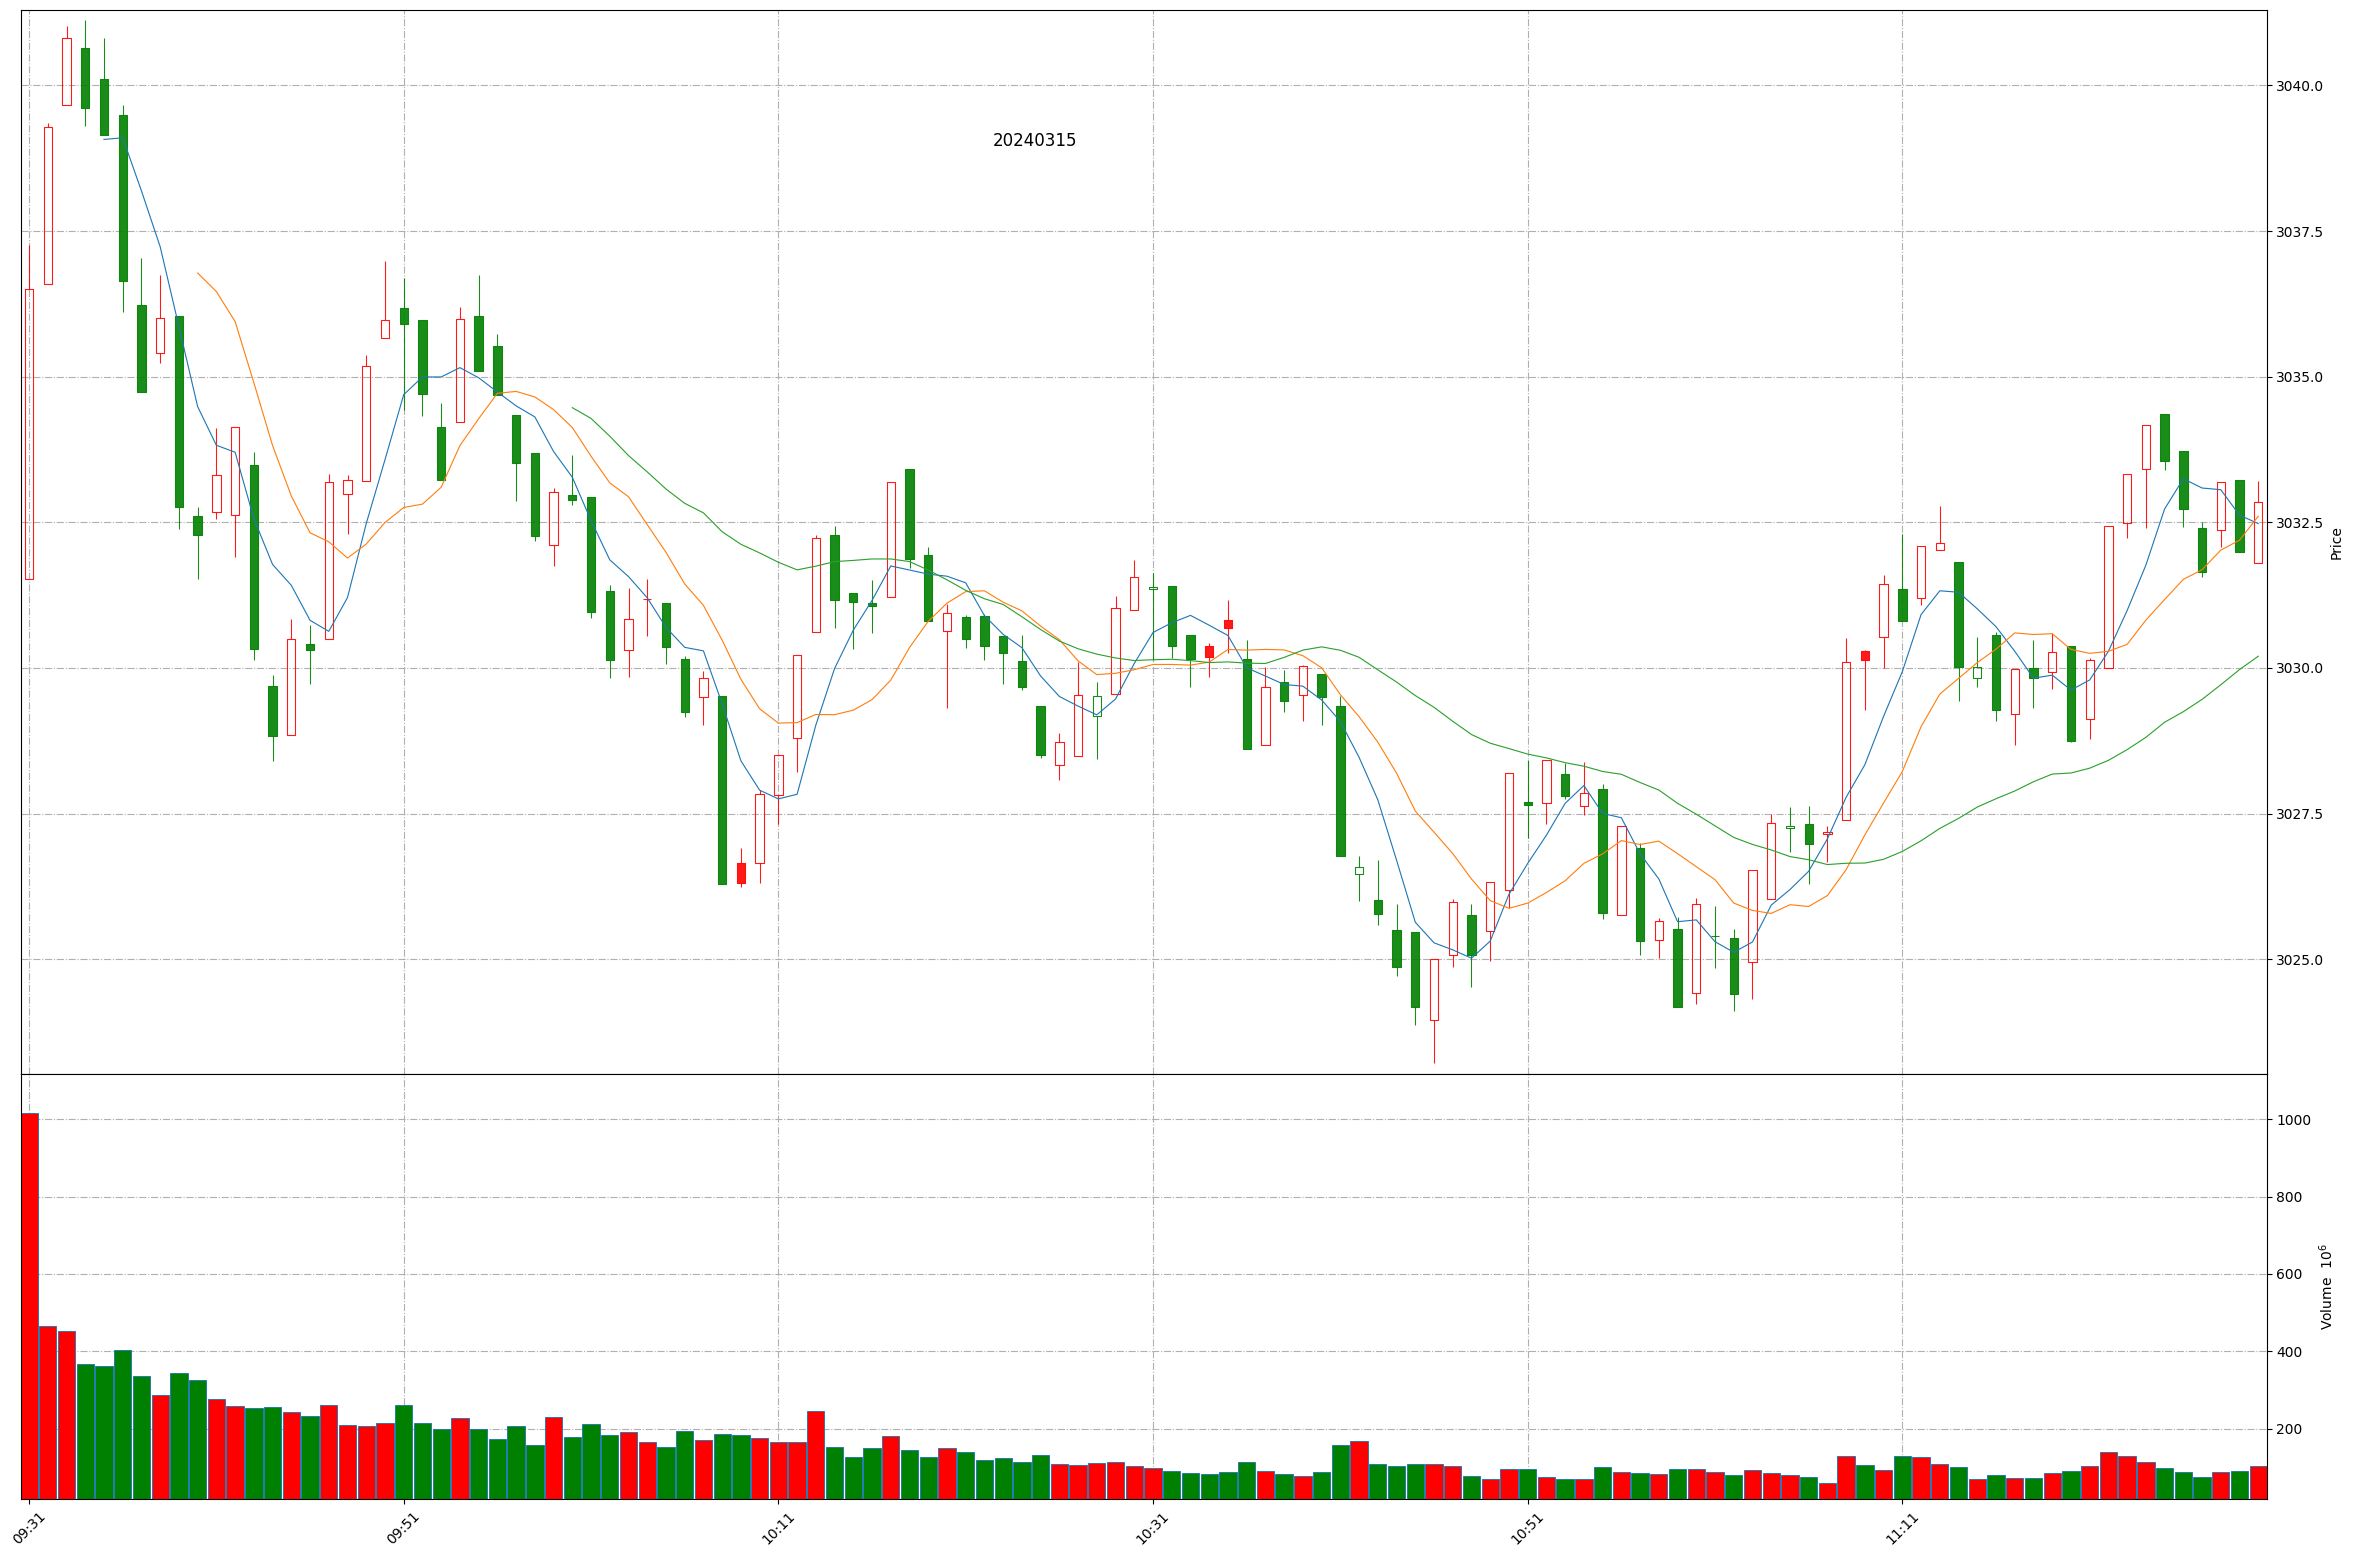
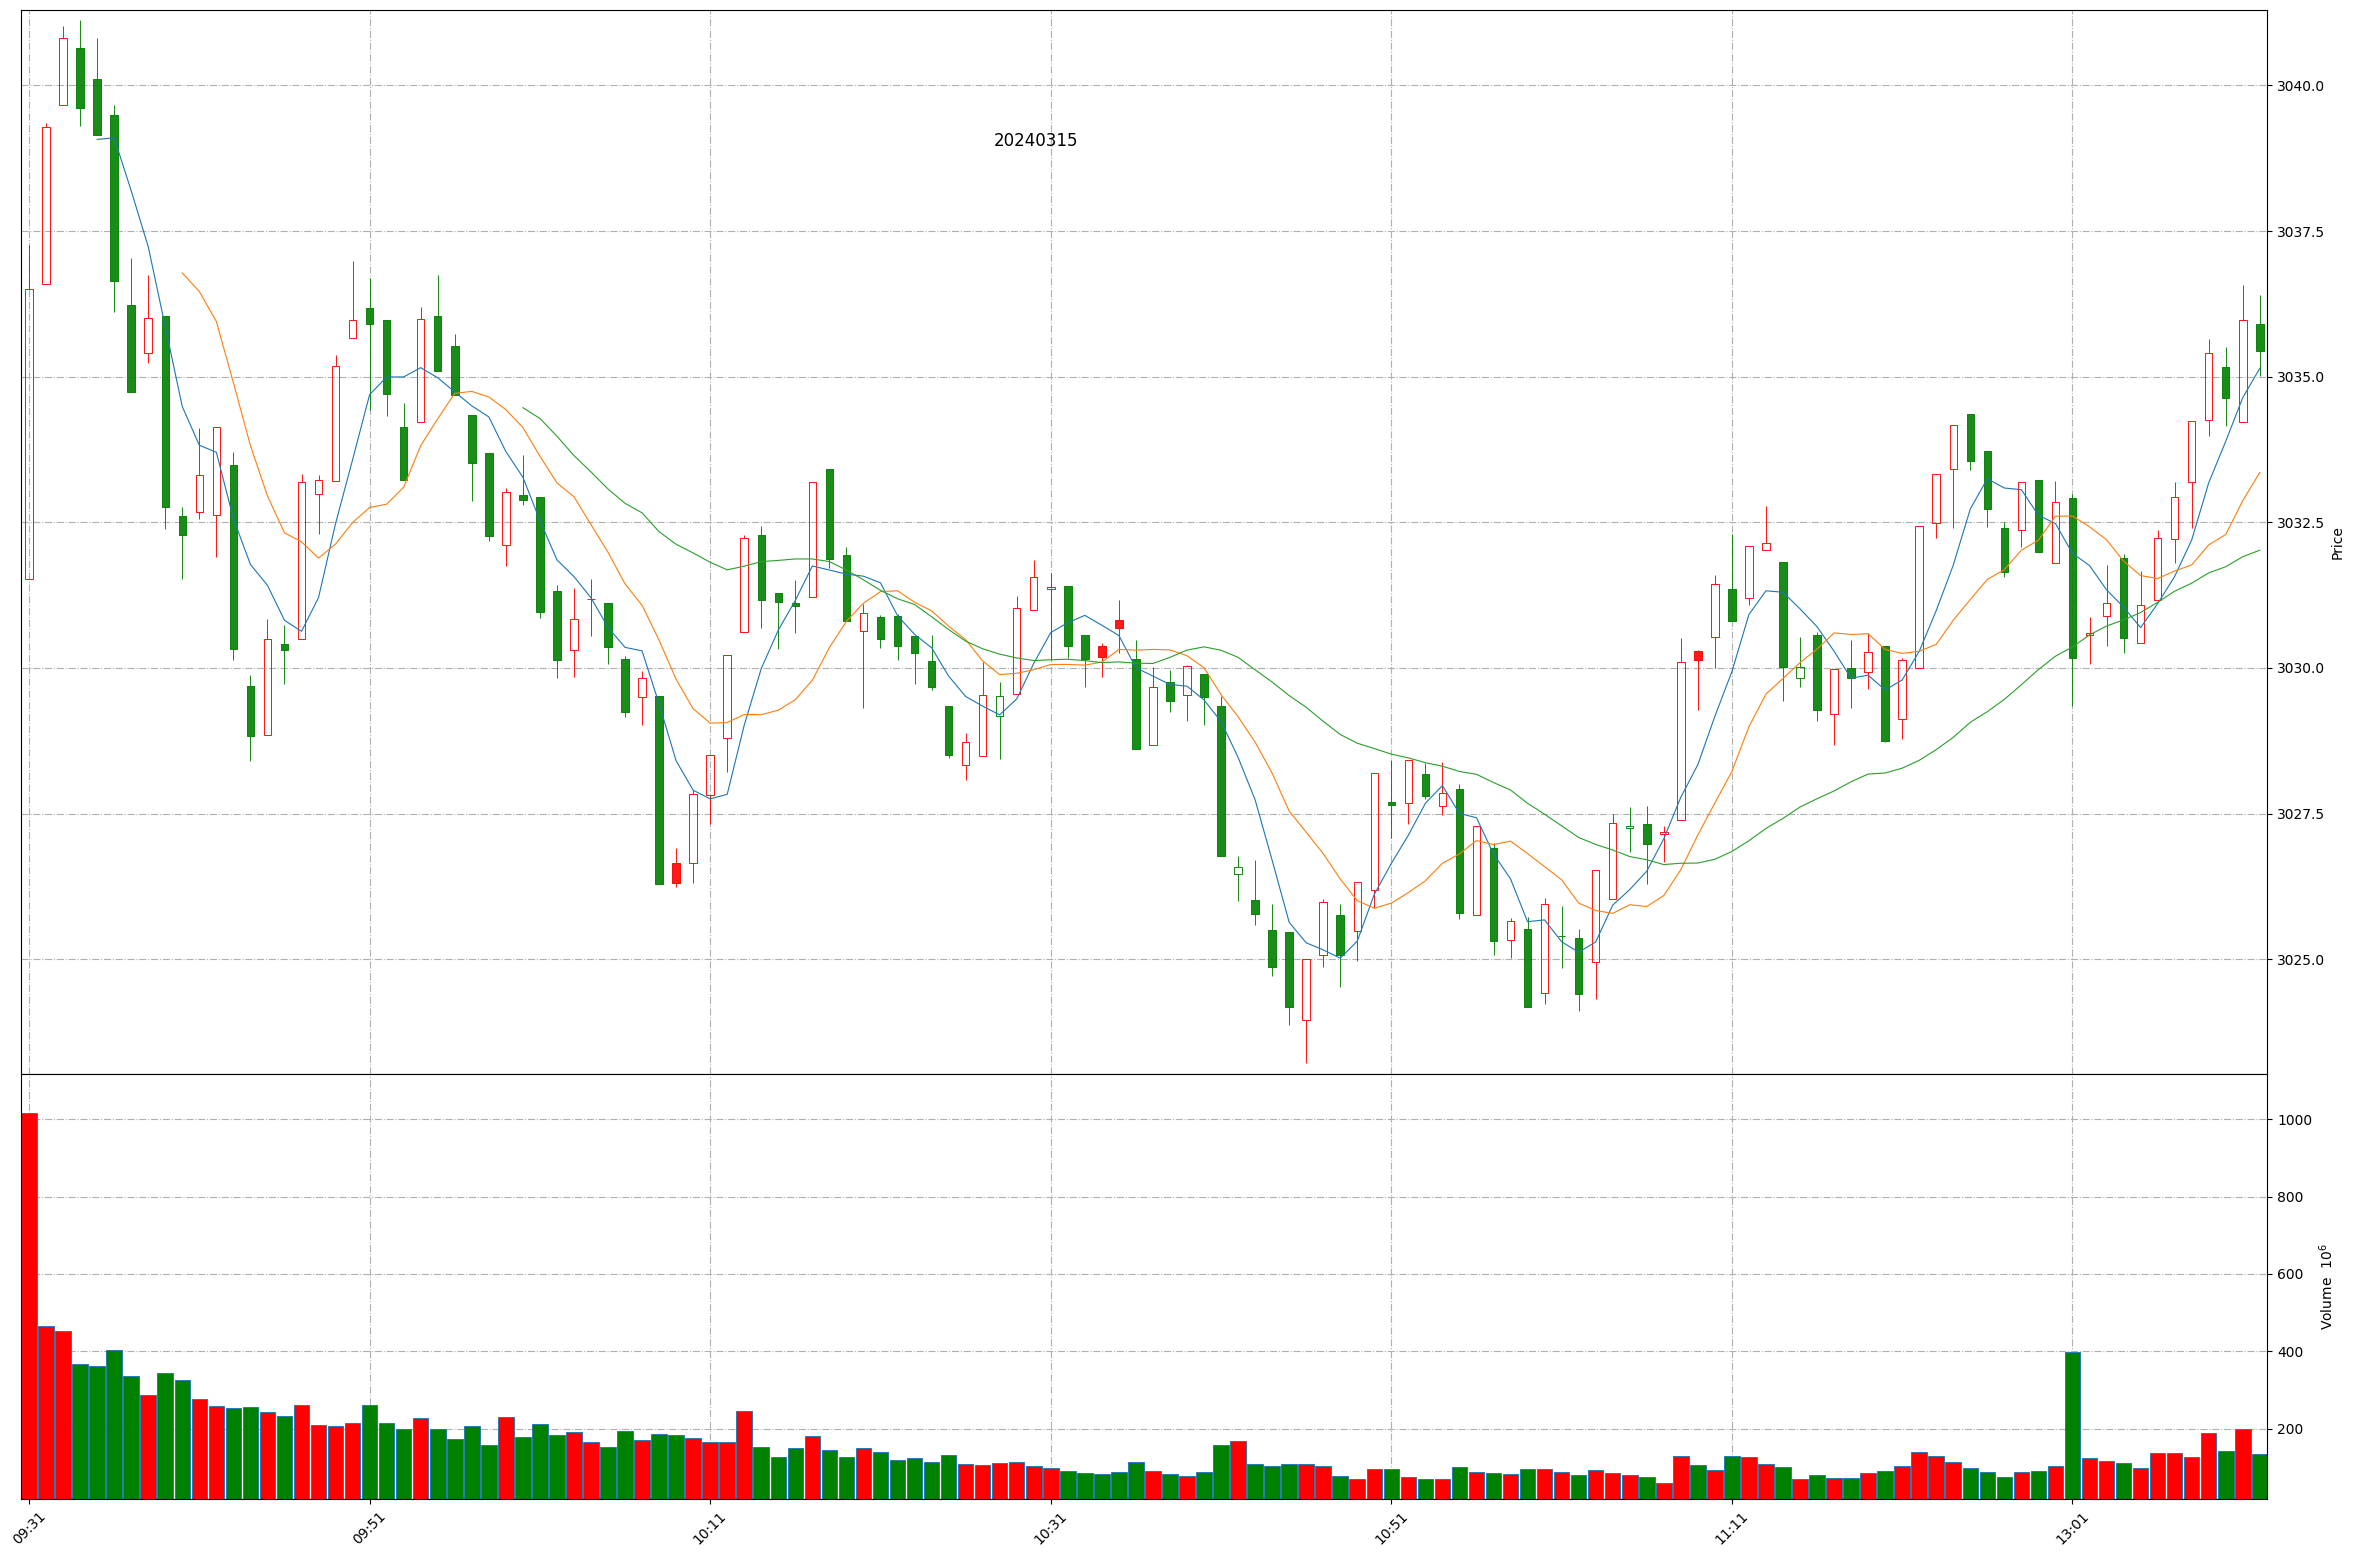
Github action update at 2024-03-15 13:12:29.

diff --git a/README.md b/README.md
@@ -1,11 +1,11 @@
 
 # Daily-A-share-market-quotes 每日 A 股指数（5min 更新）- 20240315
 
-### 上证指数 20240315 11:37
+### 上证指数 20240315 13:12
 ![](./fig/2024/3/20240315-sh000001.png)
 
-### 深证成指 20240315 11:37
+### 深证成指 20240315 13:12
 ![](./fig/2024/3/20240315-sz399001.png)
 
-### 北证50 20240315 11:37
+### 北证50 20240315 13:12
 ![](./fig/2024/3/20240315-bj899050.png)
